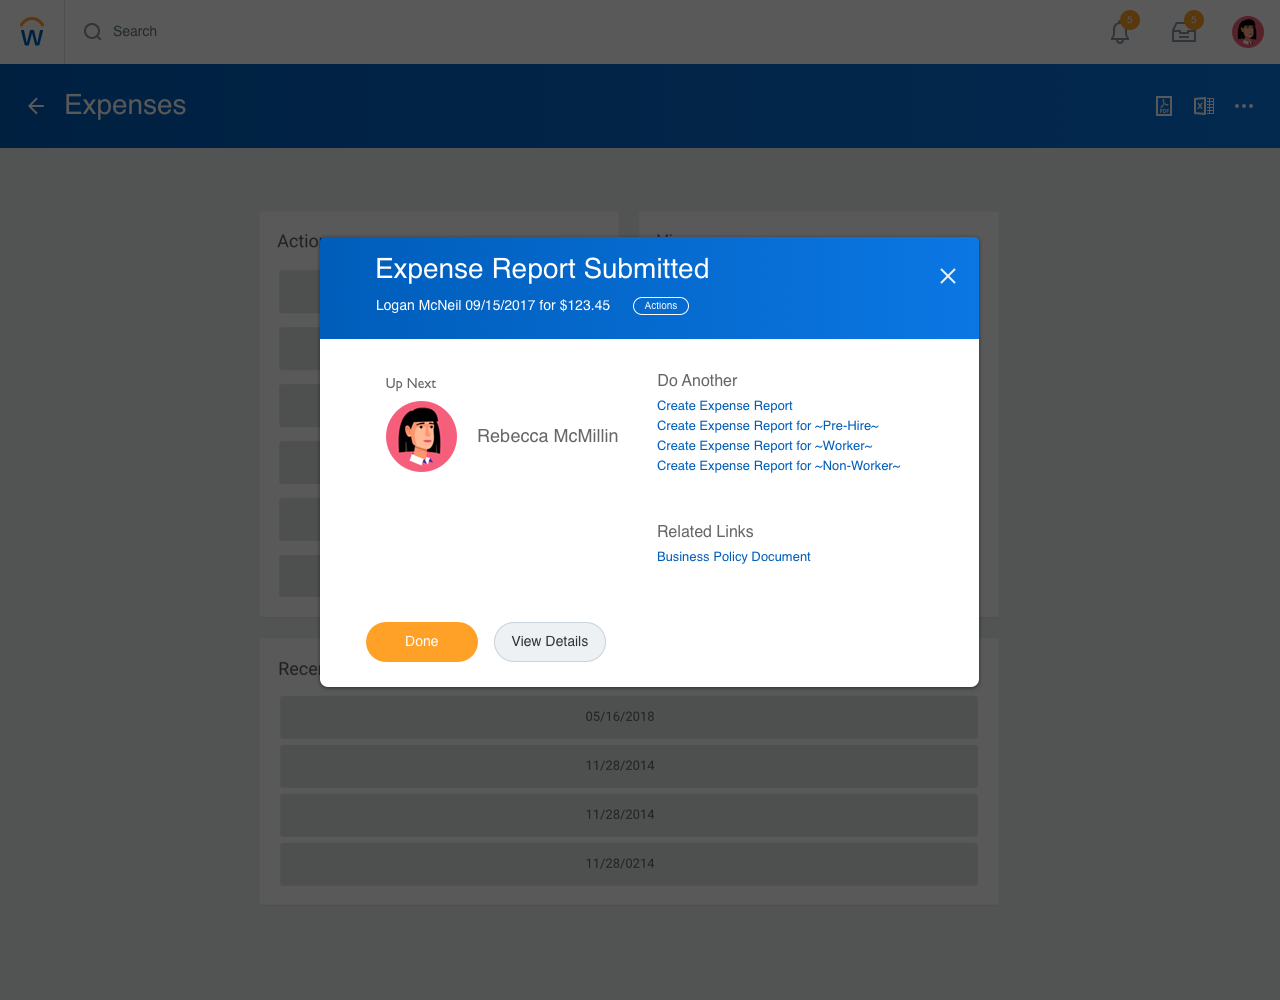
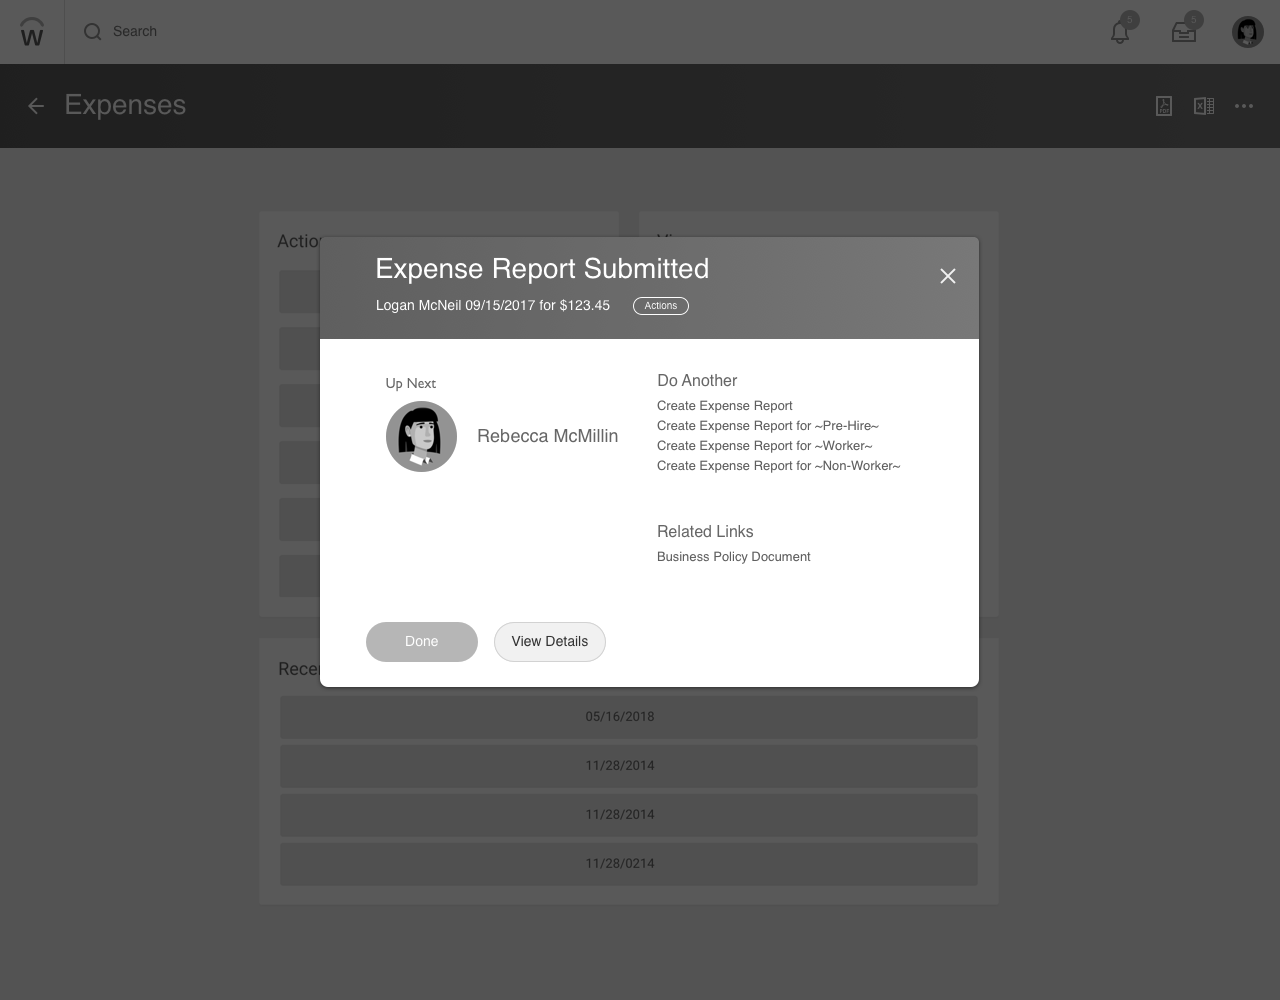
fixed some formating slim conclusion
also blacked out usability testing images

diff --git a/workday_conclusion.html b/workday_conclusion.html
@@ -174,7 +174,7 @@
       <div class="col-2" style="width: 100px;"></div>
     </div>
 
-    <p class="lead" style="margin-bottom:-3em; margin-top:1.5em; text-align: center">
+    <p class="lead" style="margin-bottom:-2em; margin-top:1.5em; text-align: center">
       Dublin's Solution
     </p>
     <div class="row" style="margin-top: 3.5vw;">
@@ -429,7 +429,7 @@
       <div class="col-1"></div>
     </div>
 
-    <p class="lead" style="margin-bottom:-3em; margin-top:1.5em; text-align: center">
+    <p class="lead" style="margin-bottom:-2em; margin-top:1.5em; text-align: center">
       Lofi Digitization
     </p>
     <div class="row titlehoriz" style="margin-top: 3.5vw;">
@@ -555,7 +555,7 @@
       <div class="col-3" style="width: 100px;"></div>
     </div>
 
-    <p class="lead" style="margin-bottom:-3em; margin-top:1.5em; text-align: center">
+    <p class="lead" style="margin-bottom:-2em; margin-top:1.5em; text-align: center">
       Versions to test
     </p>
     <div class="row titlehoriz" style="margin-top: 3.5vw;">
@@ -616,14 +616,14 @@
       <div class="col-5" style="text-align:center;">
         <!-- vertically alligns words and pictures -->
         <div class="row" style="margin-top:15px;"></div>
-        <img class="img-fluid " src="img/workday/old_1.png" alt=" " />
+        <img class="img-fluid " src="img/workday/old_1_b.png" alt=" " />
         <div class="row" style="margin-top:15px;"></div>
       </div>
       <div class="row" style="margin-right: 3vw"></div>
       <div class="col-5" style="text-align:center;">
         <!-- vertically alligns words and pictures -->
         <div class="row" style="margin-top:15px;"></div>
-        <img class="img-fluid " src="img/workday/old_2.png" alt=" " />
+        <img class="img-fluid " src="img/workday/old_2_b.png" alt=" " />
         <div class="row" style="margin-top:15px;"></div>
       </div>
       <div class="col-1"></div>
@@ -663,6 +663,10 @@
           </li>
           <li class="lead" style="font-size: 18px; line-height: 2;padding-left: 2vw;">
             <i class="fa-li fa fa-circle" style="color:#90A5C0; line-height: 1.8; padding-left: 2vw; font-size: 10px; padding-top: 7px"></i>Users
+            didn't click View Details
+          </li>
+          <li class="lead" style="font-size: 18px; line-height: 2;padding-left: 2vw;">
+            <i class="fa-li fa fa-circle" style="color:#90A5C0; line-height: 1.8; padding-left: 2vw; font-size: 10px; padding-top: 7px"></i>Users
             wanted a high level summary of what to expect next (i.e.
             estimate time for submission to finish processing, how many people
             need to approve the task and who to contact if something were to
@@ -677,7 +681,7 @@
       <div class="col-3"></div>
       <div class="col-6" style="text-align:center;">
         <!-- vertically alligns words and pictures -->
-        <p class="lead" style="margin-bottom:.5em;">Colored Modal</p>
+        <p class="lead" style="margin-bottom:.5em;">Modal Design</p>
         <div class="row" style="margin-top:15px;"></div>
         <img class="img-fluid " src="img/workday/modal_color.png" alt=" " />
         <div class="row" style="margin-top:15px;"></div>
@@ -722,8 +726,8 @@
       <div class="col-2" style="width: 100px;"></div>
     </div>
 
-    <p class="lead" style="margin-bottom:-3em; margin-top:1.5em; text-align: center">
-      Colored Slim
+    <p class="lead" style="margin-bottom:-2em; margin-top:1.5em; text-align: center">
+      Slim Design
     </p>
     <div class="row" style="margin-top: 3.5vw;">
       <div class="col-1"></div>
